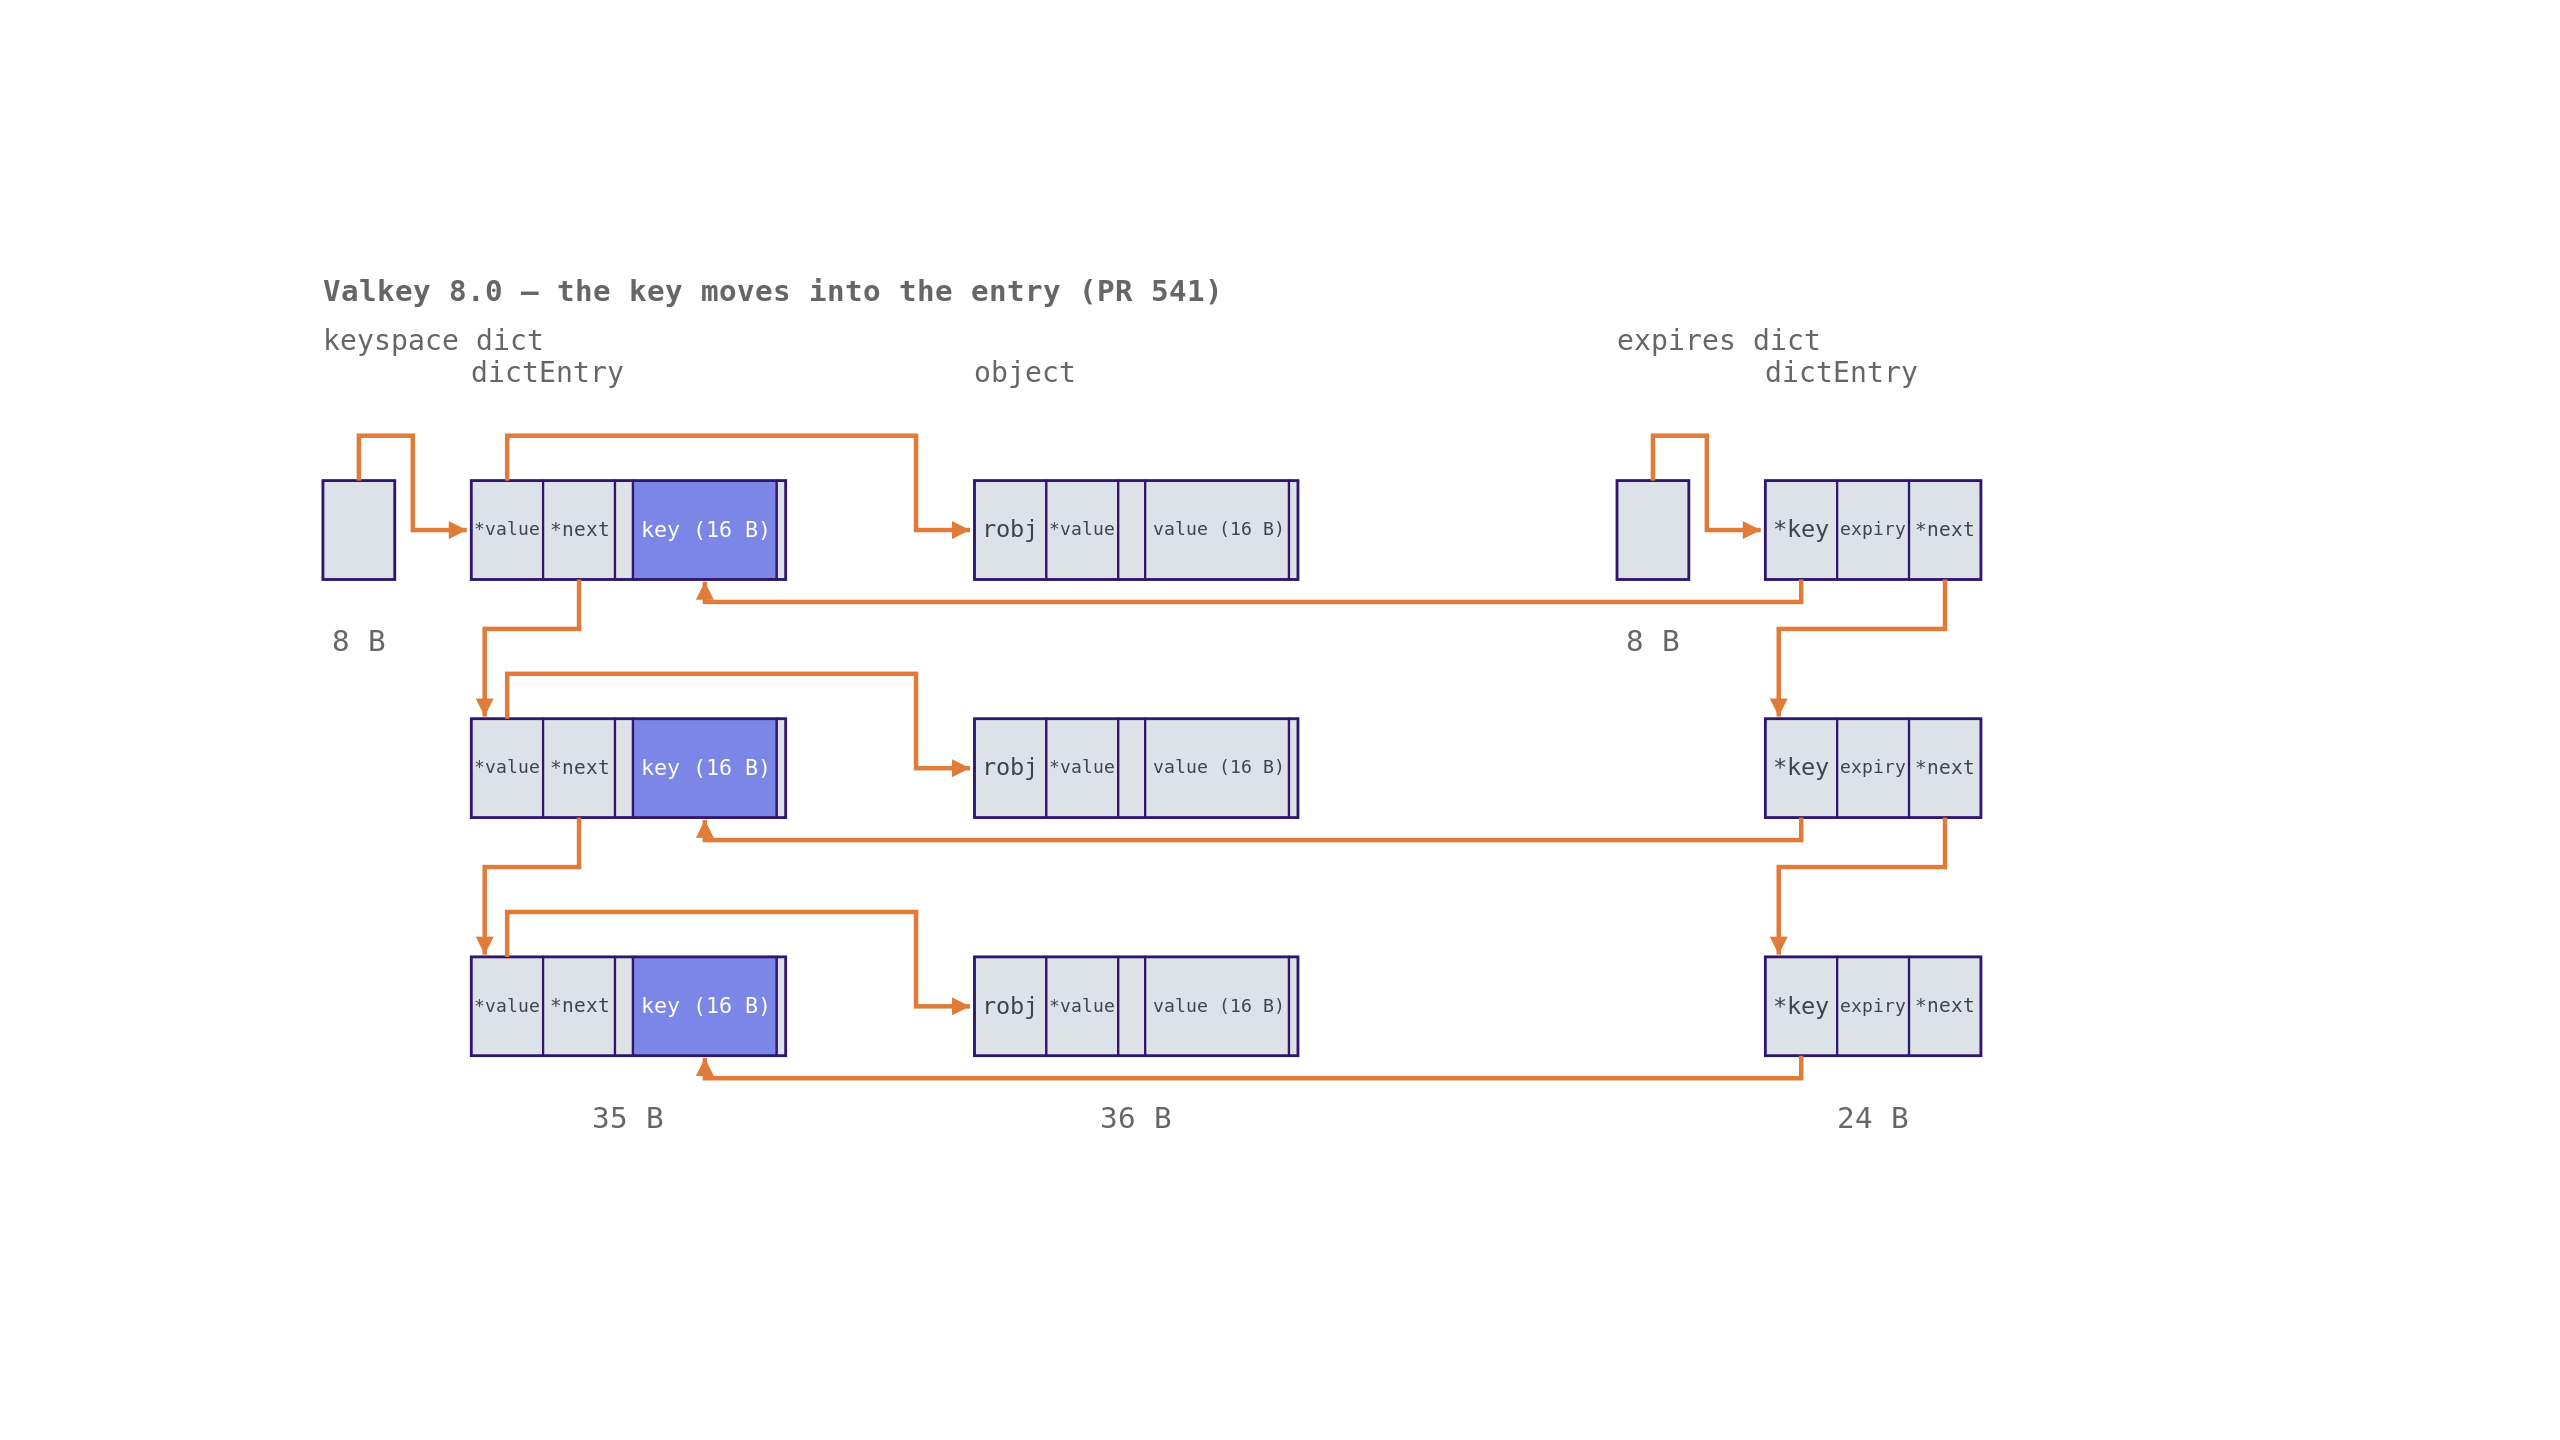
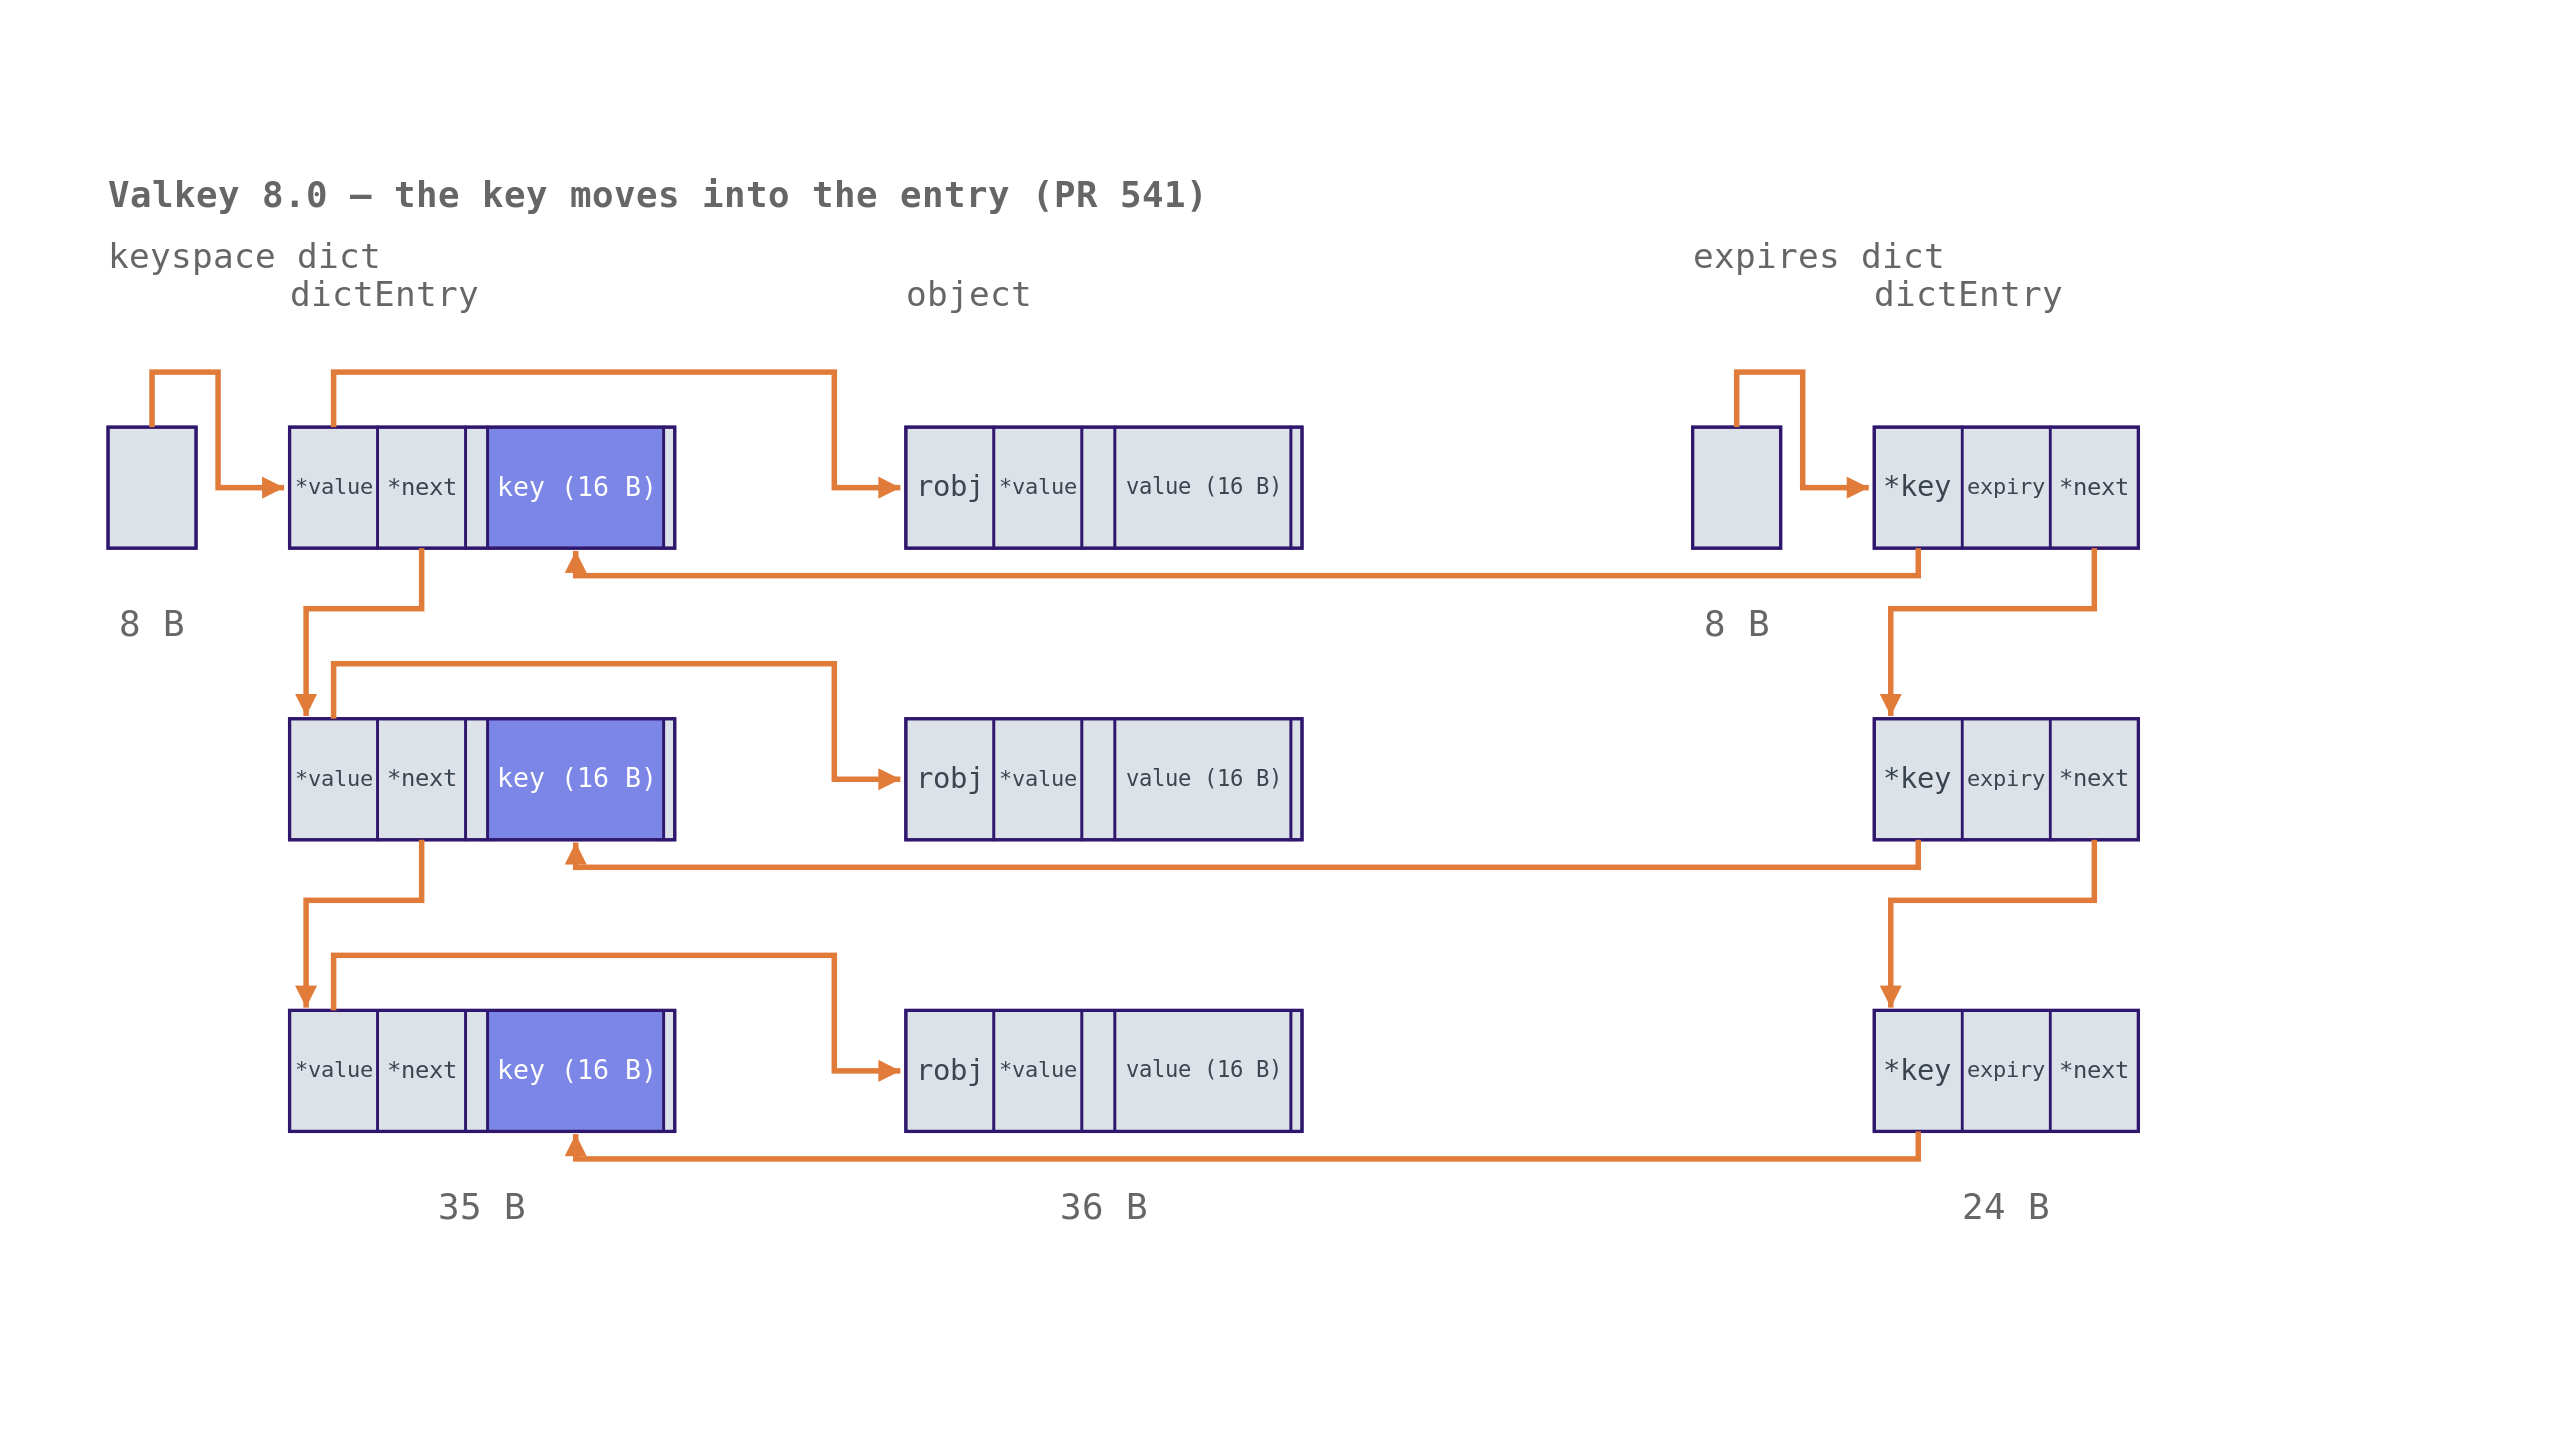
Dict -> Hashtable chain frames fill the slide (2.5% safe margin): figure 22% larger
patch_figures.py gains BOX, a per-page override that replaces the rectangle Google Slides baked
with the whole slide minus a margin fraction. Page 12's export left ~11% dead on each side; the
seven chain frames now get 2432 px of the 2560, matching the edge-to-edge figures on pages 16-17
while keeping a safe zone for projector overscan. The baked figure area is still cleared.

diff --git a/makeover/patch_figures.py b/makeover/patch_figures.py
@@ -30,6 +30,9 @@ FIGURES = {12: CHAIN,                                        # the collision-cha
                                                              # it covers what pages 12 and 13 showed, so 13 goes
            16: OUT / 'fig-fb-1-skiplist-topology.svg',       # explicit arrowheads (librsvg mis-orients <marker>)
            17: OUT / 'fig-fb-2-fbtree-topology.svg'}
+BOX = {12: 0.025}    # page -> margin as a fraction of the slide: the figure box is the whole slide minus that
+                     # margin instead of the rectangle Google Slides baked (which left ~11% dead on each side of
+                     # page 12). A 2-4% safe zone survives projector overscan; 0 reads as cropped.
 TRIM = {16, 17}      # crop the figure's own whitespace margin before fitting, so it fills the box like the
                      # export did. NOT for the chain frames: their shared canvas is what keeps every
                      # object in place from one click to the next.
@@ -92,7 +95,12 @@ for page_no, fig in FIGURES.items():
         continue
     page = pdf[page_no - 1]
     slide = Image.open(slide_path).convert('RGB')
-    box = figure_box(page, slide)
+    if page_no in BOX:
+        m = BOX[page_no]
+        box = (round(slide.width * m), round(slide.height * m), round(slide.width * (1 - m)), round(slide.height * (1 - m)))
+        slide.paste((255, 255, 255), figure_box(page, slide))    # still clear the baked figure
+    else:
+        box = figure_box(page, slide)
     if isinstance(fig, list):
         for i, f in enumerate(fig):
             out, s = patched(slide, box, f)

diff --git a/AGENTS.md b/AGENTS.md
@@ -61,7 +61,8 @@ and a Chromium it can launch.
 2. Add or change the page -> file line in `FIGURES` in `makeover/patch_figures.py`. The script reads the
    figure rectangle from the PDF page, so the new figure lands exactly where Google Slides put the old one.
    It asserts the page has exactly one baked image; a page with text on it needs a different approach.
-   A page may map to a LIST of figures (it becomes one slide per figure, `s012a.png`, `s012b.png`, ...,
+   `BOX` overrides the baked rectangle with the whole slide minus a margin fraction (page 12 uses 0.025:
+   a 2-4% safe zone survives projector overscan; 0 reads as cropped). A page may map to a LIST of figures (it becomes one slide per figure, `s012a.png`, `s012b.png`, ...,
    a step sequence drawn in the figure) or to `None` (dropped). The script then rewrites
    `prague-deck/slides.json` / `slides.js`, so the count can differ from the PDF's page count.
 3. Run the pipeline from step 2 down, open `prague-deck/slides-lite/sNNN.png` and look at it. Keep the
